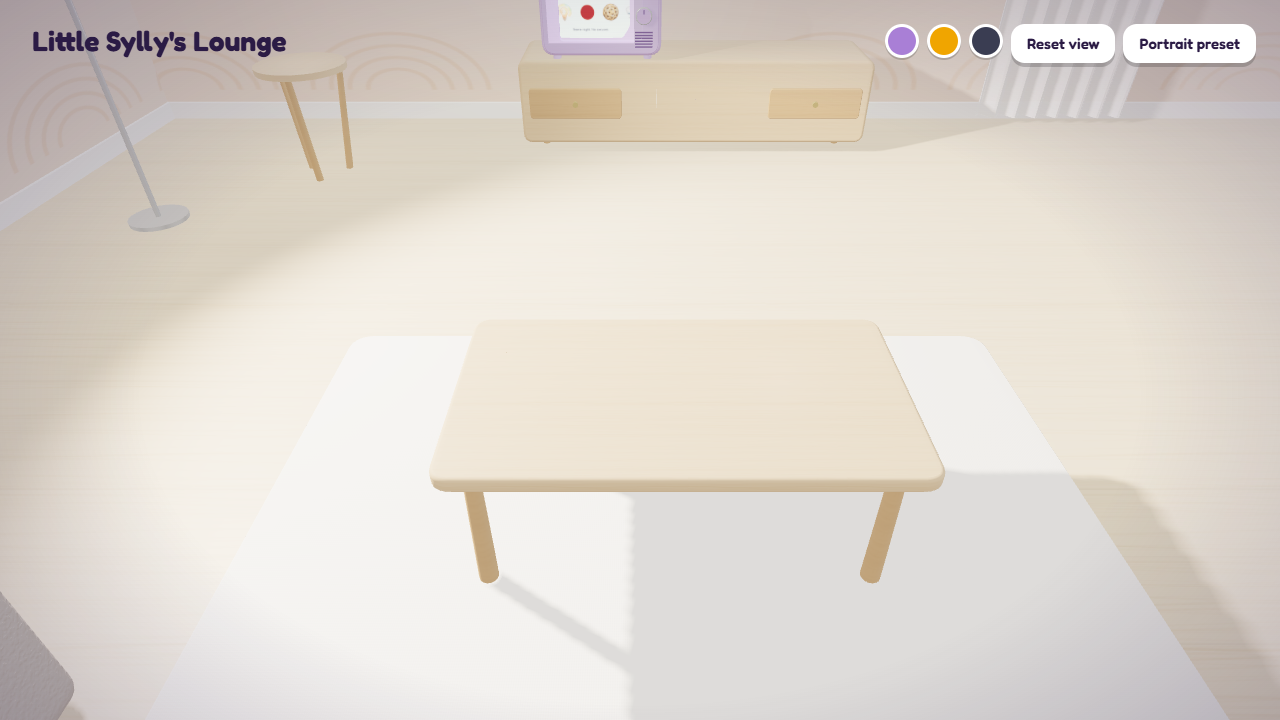
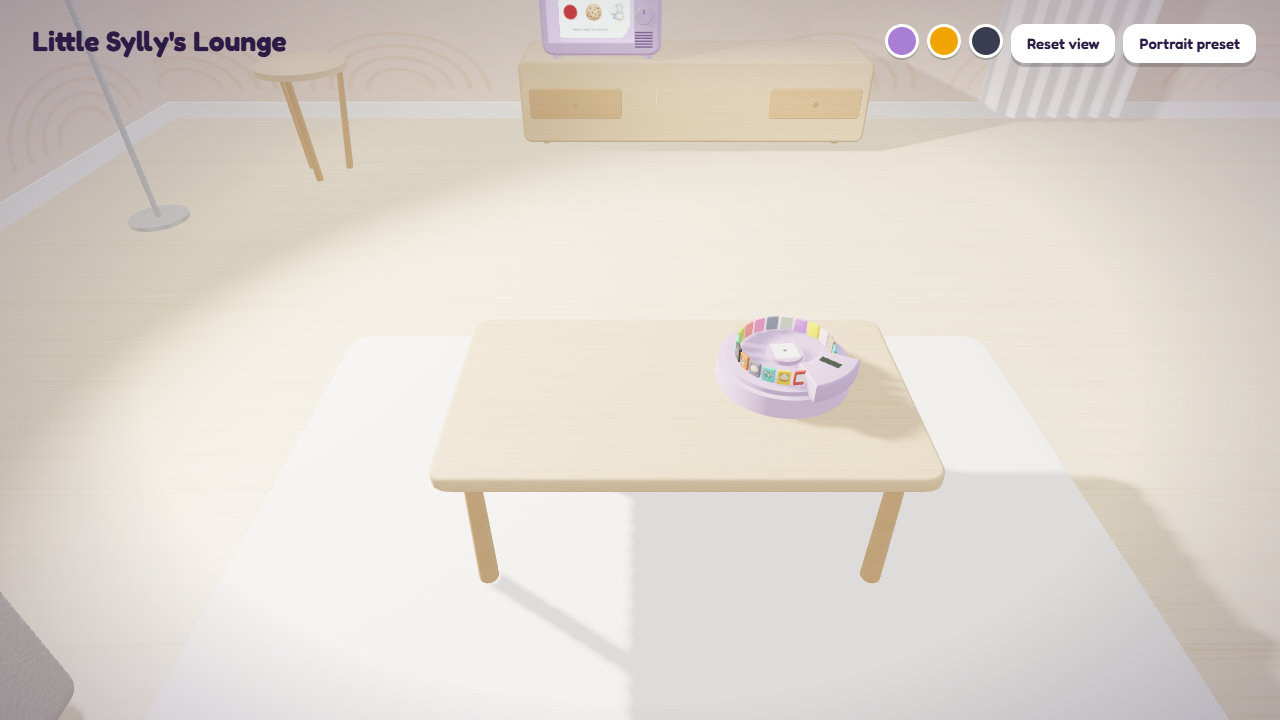
feat(premium): the cartridge dial — drift, spin, rise, hand-off
The idle drift resumed the instant the spin tween ended (onDone set driftPauseUntil = 0), sliding the chosen cartridge off the front while the player was still being shown it — the harness's 'spinner rests with cartridge 7 at the front' caught it as a 0.0175 rad miss. The dial now holds for 2 s after a spin lands, which covers the scene's 250 ms delay plus the 600 ms push-in.

Verified in the browser: seed 7 spins to dsd, cartridge 4 rises, the display names it and the status line takes the hand-off. Idle drift measures slow headless only because SwiftShader renders this scene at 3.5 fps and dt is capped at 50 ms; the RAF loop is self-sustaining (isRunning true).

Changed region(s): [[0.5625, 0.4278, 0.7188, 0.6111], [0.4375, 0.0, 0.5, 0.0306]]

diff --git a/wip/premium/prm-props.js b/wip/premium/prm-props.js
@@ -179,7 +179,88 @@
   }
   PRM_BUILDERS.tv = (ctx, shared) => prmBuildTV(ctx.lib, ctx.design, { earGeometry: shared.earGeometry, attractTexture: ctx.attractTexture });
 
-  const api = { PRM_ACTIONS, PRM_TAB_ORDER, PRM_PLACES, PRM_BUILDERS, PRM_ATTRACT_LINES, prmBuildAll, prmMotion, prmEaseOutCubic, prmEaseOutBack, prmMesh, prmTag, prmAttract };
+  /* Pure: the rotation a spin ends on. Cartridge i sits at angle i·slot on the
+     ring; spinner rotation θ = -k·slot brings k to the front. Always at least
+     `turns` full turns forward, then the shortest forward distance. */
+  function prmSpinPlan(n, currentRot, targetIdx, turns = 3) {
+    const TAU = Math.PI * 2, slot = TAU / n, want = -targetIdx * slot;
+    let delta = ((want - currentRot) % TAU + TAU) % TAU; if (delta < 1e-9) delta = TAU;
+    return { targetIdx, endRot: currentRot + turns * TAU + delta, durationMs: 1800 };
+  }
+
+  /* The cartridge caddy. Base = shell, top plate/boss/wedge = plate, one soft
+     ring in the buttons colour (all that is left of the RGB), twenty generic
+     cartridges in their games' brand colours with the stickers as labels. */
+  function prmBuildDial(lib, design, games, stickerUrl) {
+    const { THREE, mats } = lib; const g = new THREE.Group(); prmTag(g, 'dial');
+    const shell = lib.role('shell', design.shell), plate = lib.role('plate', design.plate);
+    const ring = lib.role('buttons', design.buttons, { emissive: design.buttons, emissiveIntensity: .35, transparent: true, opacity: .9 }); ring.userData.prmEmissive = true;
+    g.add(prmMesh(THREE, new THREE.CylinderGeometry(0.16, 0.165, 0.05, 48), shell, 'base', [0, 0.025, 0]));
+    g.add(prmMesh(THREE, new THREE.TorusGeometry(0.155, 0.005, 8, 64), ring, 'ring', [0, 0.02, 0], [Math.PI / 2, 0, 0], false));
+    const spinner = new THREE.Group(); spinner.name = 'spinner'; spinner.position.y = 0.05; g.add(spinner);
+    spinner.add(prmMesh(THREE, new THREE.CylinderGeometry(0.145, 0.145, 0.012, 48), plate, 'topPlate', [0, 0.006, 0]));
+    spinner.add(prmMesh(THREE, new THREE.CylinderGeometry(0.045, 0.045, 0.012, 32), plate, 'boss', [0, 0.018, 0]));
+    spinner.add(prmMesh(THREE, new THREE.PlaneGeometry(0.06, 0.06), new THREE.MeshStandardMaterial({ map: lib.tex.label('★', '#ffffff', '#2B1B45', 128, 128), roughness: .5 }), 'bossLabel', [0, 0.0251, 0], [-Math.PI / 2, 0, 0], false));
+    const n = games.length, slot = Math.PI * 2 / n, r = 0.115, REST = 0.03;
+    const cartGeo = lib.moulded(0.03, 0.038, 0.007, 0.004, { bevelSegments: 2 });
+    const cartridges = games.map((game, i) => {
+      const a = i * slot, cg = new THREE.Group(); cg.name = 'cart-' + game.id; cg.userData.gameId = game.id; cg.userData.restY = REST;
+      cg.position.set(Math.sin(a) * r, REST, Math.cos(a) * r); cg.rotation.y = a;
+      cg.add(prmMesh(THREE, cartGeo, new THREE.MeshStandardMaterial({ color: game.brandHex, roughness: .5 }), 'cartBody', [0, 0, 0]));
+      const labelMat = new THREE.MeshStandardMaterial({ color: '#ffffff', roughness: .6, transparent: true }); labelMat.userData.prmImage = stickerUrl(game.id);
+      cg.add(prmMesh(THREE, new THREE.PlaneGeometry(0.022, 0.022), labelMat, 'cartLabel', [0, 0.002, 0.0042], null, false));
+      spinner.add(cg); return cg;
+    });
+    // fixed wedge housing, front-right, with the little display on top
+    const a0 = -75 * Math.PI / 180, a1 = -25 * Math.PI / 180, wedge = new THREE.Shape();
+    wedge.absarc(0, 0, 0.09, a0, a1, false); wedge.absarc(0, 0, 0.17, a1, a0, true); wedge.closePath();
+    const wedgeGeo = lib.extrude(wedge, 0.05, 0.006, { center: false }); wedgeGeo.rotateX(-Math.PI / 2);
+    g.add(prmMesh(THREE, wedgeGeo, plate, 'wedge', [0, 0.056, 0]));
+    const am = (a0 + a1) / 2, dispMat = new THREE.MeshStandardMaterial({ map: lib.tex.label('', '#1a1a1a', '#e9ffe9', 256, 96), roughness: .3, emissive: '#3a5a3a', emissiveIntensity: .3 });
+    g.add(prmMesh(THREE, new THREE.PlaneGeometry(0.05, 0.018), dispMat, 'display', [Math.cos(am) * 0.13, 0.113, -Math.sin(am) * 0.13], [-Math.PI / 2, 0, -am - Math.PI / 2], false));
+    /* After a spin lands, the dial holds still long enough for the chosen
+       cartridge to be read and for the camera to push into the telly (the
+       scene waits 250 ms, then a 600 ms tween). Resuming the idle drift the
+       instant the tween ends slides the winner off the front while the player
+       is still looking at it. */
+    const HOLD_MS = 2000;
+    let rot = 0, driftPauseUntil = 0, risen = null, spinning = null, lastNow = 0; const motion = prmMotion();
+    const api = {
+      spinner, cartridges, isSpinning: () => !!spinning,
+      setDisplay(text) { const old = dispMat.map; dispMat.map = lib.tex.label(text, '#1a1a1a', '#e9ffe9', 256, 96); dispMat.needsUpdate = true; if (old) old.dispose(); },
+      rise(k, instant) {
+        if (risen !== null && risen !== k) { const prev = cartridges[risen]; motion.add(prev.position.y, REST, 200, prmEaseOutCubic, v => prev.position.y = v); }
+        const c = cartridges[k]; risen = k;
+        if (instant) c.position.y = REST + 0.012; else motion.add(c.position.y, REST + 0.012, 200, prmEaseOutBack, v => c.position.y = v);
+        api.setDisplay(games[k].gameName);
+      },
+      spin(rand, opt = {}) {
+        if (spinning) return spinning;
+        const k = Math.min(n - 1, Math.floor(rand() * n));
+        /* Reduced motion: show the result, skip the journey (spec § 11). Not
+           tracked as `spinning` — there is no tween to guard against. */
+        if (opt.instant) { rot = -k * slot; spinner.rotation.y = rot; api.rise(k, true); return Promise.resolve(games[k].id); }
+        driftPauseUntil = Infinity;
+        const plan = prmSpinPlan(n, rot, k);
+        spinning = new Promise(res => {
+          motion.add(rot, plan.endRot, plan.durationMs, prmEaseOutCubic, v => { rot = v; spinner.rotation.y = v; },
+            () => { api.rise(k); spinning = null; driftPauseUntil = lastNow + HOLD_MS; res(games[k].id); });
+        });
+        return spinning;
+      },
+      pauseDrift(ms, now) { driftPauseUntil = now + ms; },
+      tick(now, dt, reduced) {
+        lastNow = now;
+        let active = motion.tick(now);
+        if (!spinning && !reduced && now >= driftPauseUntil) { rot += dt * 0.07; spinner.rotation.y = rot; active = true; }
+        return active;
+      },
+    };
+    g.userData.api = api; return g;
+  }
+  PRM_BUILDERS.dial = (ctx) => prmBuildDial(ctx.lib, ctx.design, ctx.games, id => { const s = (ctx.stickers.list || []).find(x => x.id === id); return ctx.stickers.base + (s ? s.image : id + '.png'); });
+
+  const api = { PRM_ACTIONS, PRM_TAB_ORDER, PRM_PLACES, PRM_BUILDERS, PRM_ATTRACT_LINES, prmBuildAll, prmMotion, prmEaseOutCubic, prmEaseOutBack, prmMesh, prmTag, prmAttract, prmSpinPlan };
   if (typeof window !== 'undefined') window.PrmProps = api;
   if (typeof module !== 'undefined') module.exports = api;
 })();

diff --git a/wip/premium/verify-prm-props.js b/wip/premium/verify-prm-props.js
@@ -203,6 +203,46 @@ section('tv');
   }
 }
 
+section('dial');
+global.__prmAsync = true;
+{
+  const TAU = Math.PI * 2, n = 20, slot = TAU / n;
+  const p = PrmProps.prmSpinPlan(n, 0.3, 5);
+  eq(p.targetIdx, 5, 'plan keeps the target'); eq(p.durationMs, 1800, 'plan is 1800 ms');
+  ok(p.endRot > 0.3 + 3 * TAU, 'plan spins at least three full turns forward');
+  const wrap = a => ((a % TAU) + TAU) % TAU;
+  near(wrap(p.endRot), wrap(-5 * slot), 1e-9, 'end rotation puts cartridge 5 at the front');
+  const p2 = PrmProps.prmSpinPlan(n, -5 * slot, 5); ok(p2.endRot > -5 * slot + 3 * TAU, 'already-at-target still spins forward a full turn, never zero');
+  const built = PrmProps.prmBuildAll(global.__prmCtx); const dial = built.dial; ok(dial, 'dial builds');
+  eq(dial.userData.prmId, 'dial', 'dial group is the pick node');
+  const carts = []; dial.traverse(o => { if (o.userData.gameId) carts.push(o); });
+  eq(carts.length, 20, 'dial holds exactly 20 cartridges');
+  eq(new Set(carts.map(c => c.userData.gameId)).size, 20, 'one cartridge per game id');
+  GAMES.forEach(g => ok(carts.some(c => c.userData.gameId === g.id), `cartridge for ${g.id}`));
+  const urls = []; dial.traverse(o => { if (o.isMesh && o.material.userData.prmImage) urls.push(o.material.userData.prmImage); });
+  eq(urls.length, 20, '20 label materials tagged with an image url');
+  ok(urls.every(u => u.startsWith(global.__prmCtx.stickers.base)), 'every label url comes from the sticker base');
+  const bodyOf = carts[3].getObjectByName('cartBody'); eq(bodyOf.material.color.getHexString(), GAMES[3].brandHex.slice(1).toLowerCase(), 'cartridge takes its game brand hex');
+  const ring = dial.getObjectByName('ring'); eq(ring.material.userData.prmRole, 'buttons', 'ring glow is the buttons role'); ok(ring.material.userData.prmEmissive, 'ring emissive follows the design');
+  const api = dial.userData.api; let calls = 0; const rand = () => { calls++; return 0.37; };   // → index 7
+  let resolved = null; api.spin(rand, { instant: false }).then(id => resolved = id);
+  ok(api.isSpinning(), 'spinning after spin()'); api.spin(rand); ok(calls === 1, 'a second spin() while running is a no-op (same promise)');
+  let t = 1000; for (let i = 0; i <= 40; i++) api.tick(t += 50, 0.05, false);   // 2000 ms of ticks > 1800 ms tween
+  // the resolution is a microtask; the rest of this section runs after it, then finish() prints the summary
+  Promise.resolve().then(() => {
+    api.tick(3060, 0.05, true); api.tick(3300, 0.05, true);   // let the 200 ms rise tween finish (tweens tick even under reduced motion)
+    eq(resolved, GAMES[7].id, 'spin resolves to the rand-chosen game'); ok(!api.isSpinning(), 'not spinning after the tween ends');
+    near(wrap(dial.getObjectByName('spinner').rotation.y), wrap(-7 * slot), 1e-6, 'spinner rests with cartridge 7 at the front');
+    ok(carts[7].position.y > carts[6].position.y + 0.01, 'the chosen cartridge is risen');
+    const r0 = dial.getObjectByName('spinner').rotation.y; api.tick(3350, 0.05, true); eq(dial.getObjectByName('spinner').rotation.y, r0, 'no drift under reduced motion');
+    api.pauseDrift(0, 3350); api.tick(3400, 0.05, false); ok(dial.getObjectByName('spinner').rotation.y > r0, 'drift resumes when not reduced');
+    let instant = null; api.spin(() => 0.12, { instant: true }).then(id => instant = id);   // → index 2
+    ok(!api.isSpinning(), 'an instant spin is never "spinning"');
+    Promise.resolve().then(() => { eq(instant, GAMES[2].id, 'instant spin resolves to the chosen game'); near(wrap(dial.getObjectByName('spinner').rotation.y), wrap(-2 * slot), 1e-9, 'instant spin puts the cartridge at the front'); finish(); });
+  });
+}
+
 // Later tasks append their sections above this line.
-console.log(`\n${pass} passed, ${fail} failed`);
-process.exit(fail ? 1 : 0);
+function finish() { console.log(`
+${pass} passed, ${fail} failed`); process.exit(fail ? 1 : 0); }
+if (!global.__prmAsync) finish();
